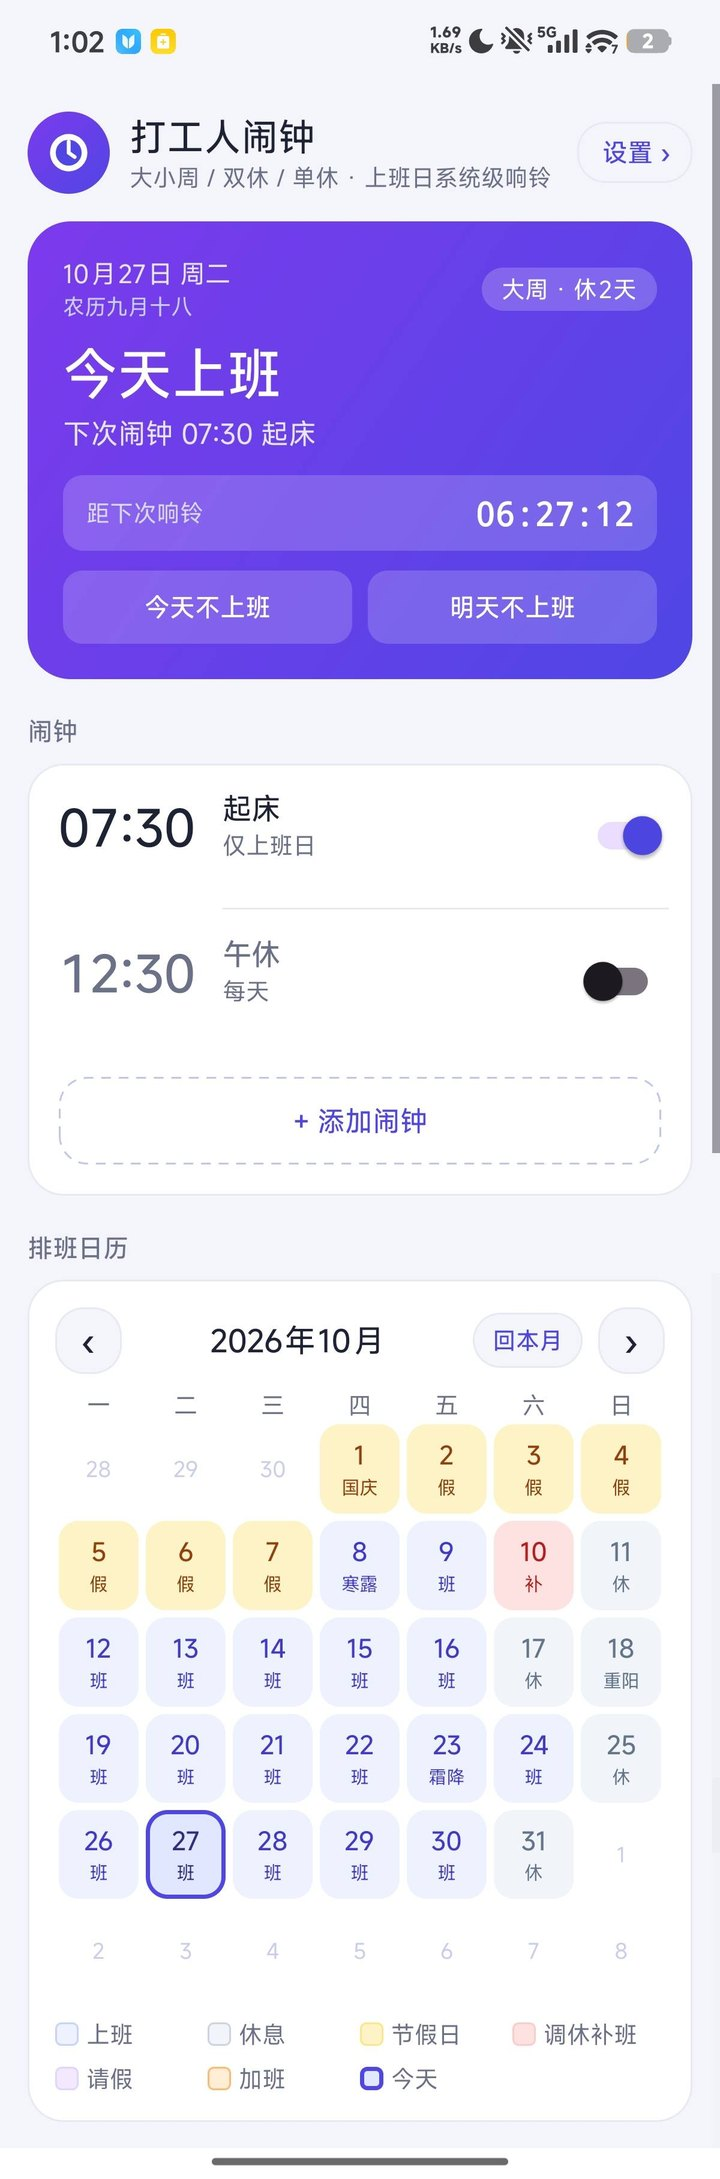
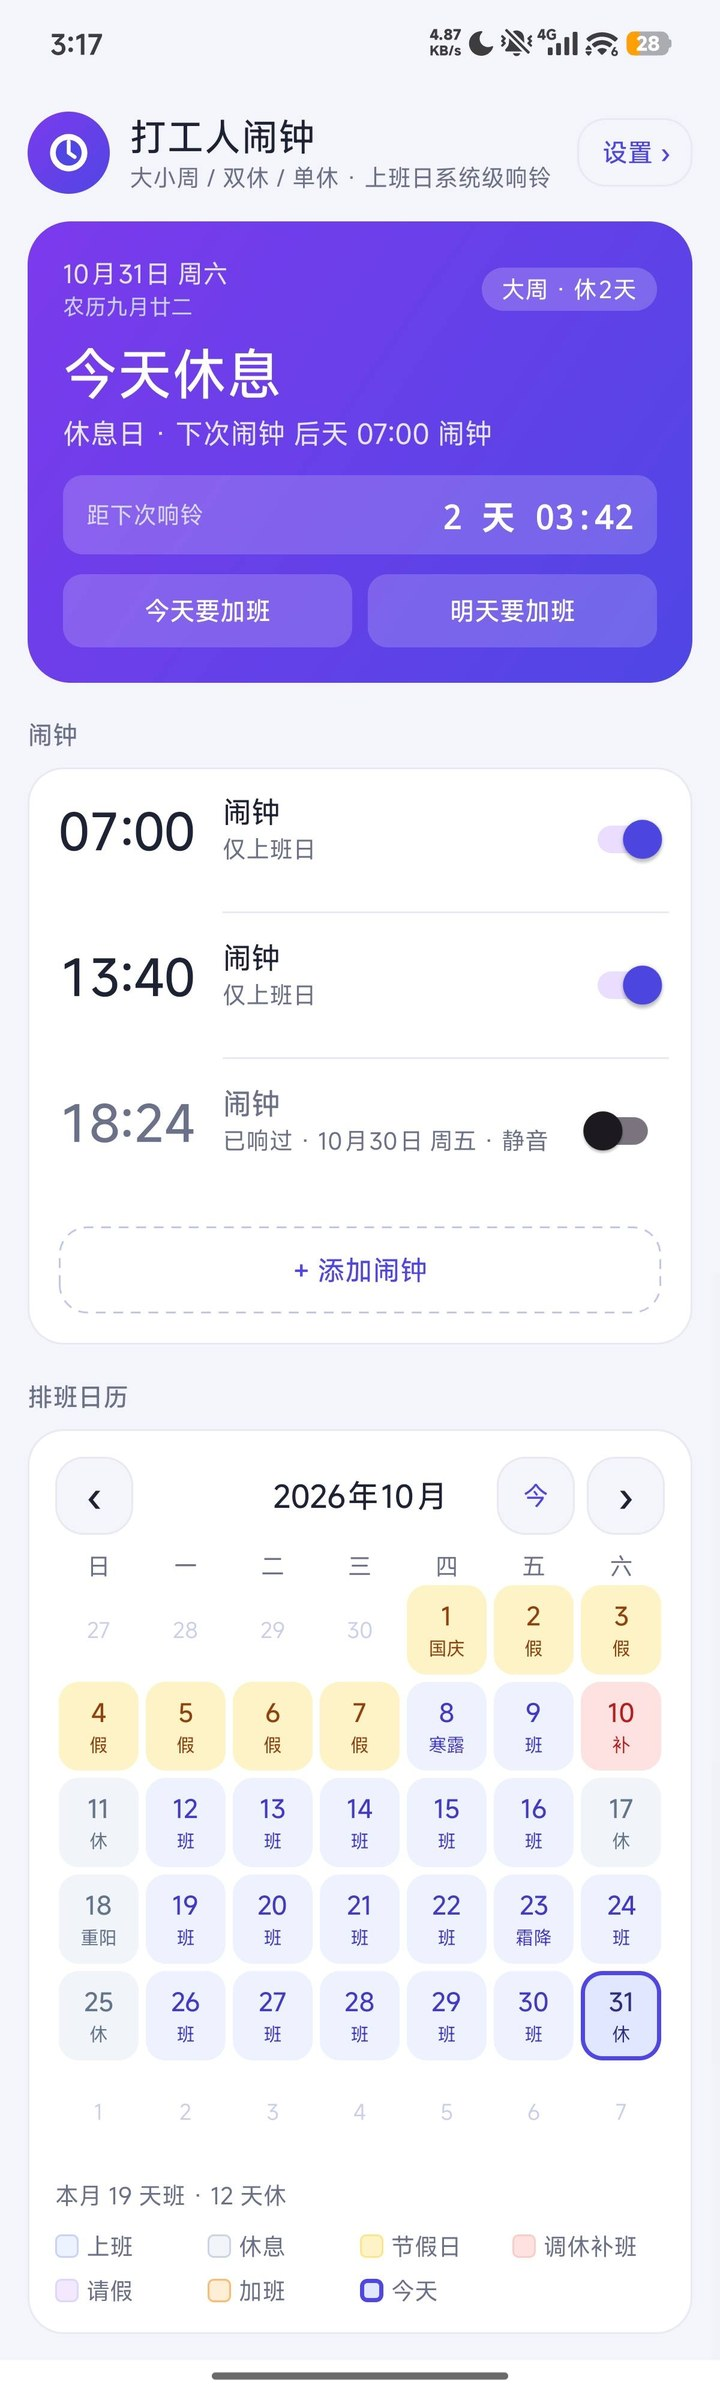
docs(readme): 三张手机截图换成 1.0.0 的实拍
旧图是 238 之前的：设置页还写着「更多响铃设置」「排班与节假日」，
首页还是「今天不上班 / 明天不上班」，日历图例也没有「本月 N 天班」那行。
公开仓库的门面就是这三张，先对齐。

- 1-home / 2-settings / 3-ringing 全部换成 1200 宽原图缩到 720，q88 渐进式
- alt 文案跟着改：「响铃方式 / 其他设置」是行名，组标题实际是「响铃 / 更多」
- 小组件两张（4 / 5）与 ICP 提示图没动，它们不涉及分组名

diff --git a/README.md b/README.md
@@ -9,7 +9,7 @@
 
 <p align="center">
   <img src="docs/screenshots/1-home.jpg" width="235" alt="首页：今天上不上班、下次闹钟、本月班表">
-  <img src="docs/screenshots/2-settings.jpg" width="235" alt="设置页：响铃方式 / 周休与节假日 / 提醒 / 其他设置">
+  <img src="docs/screenshots/2-settings.jpg" width="235" alt="设置页：响铃 / 周休与节假日 / 提醒 / 更多">
   <img src="docs/screenshots/3-ringing.jpg" width="235" alt="响铃页：滑动停止、5 分钟后再响">
 </p>
 
